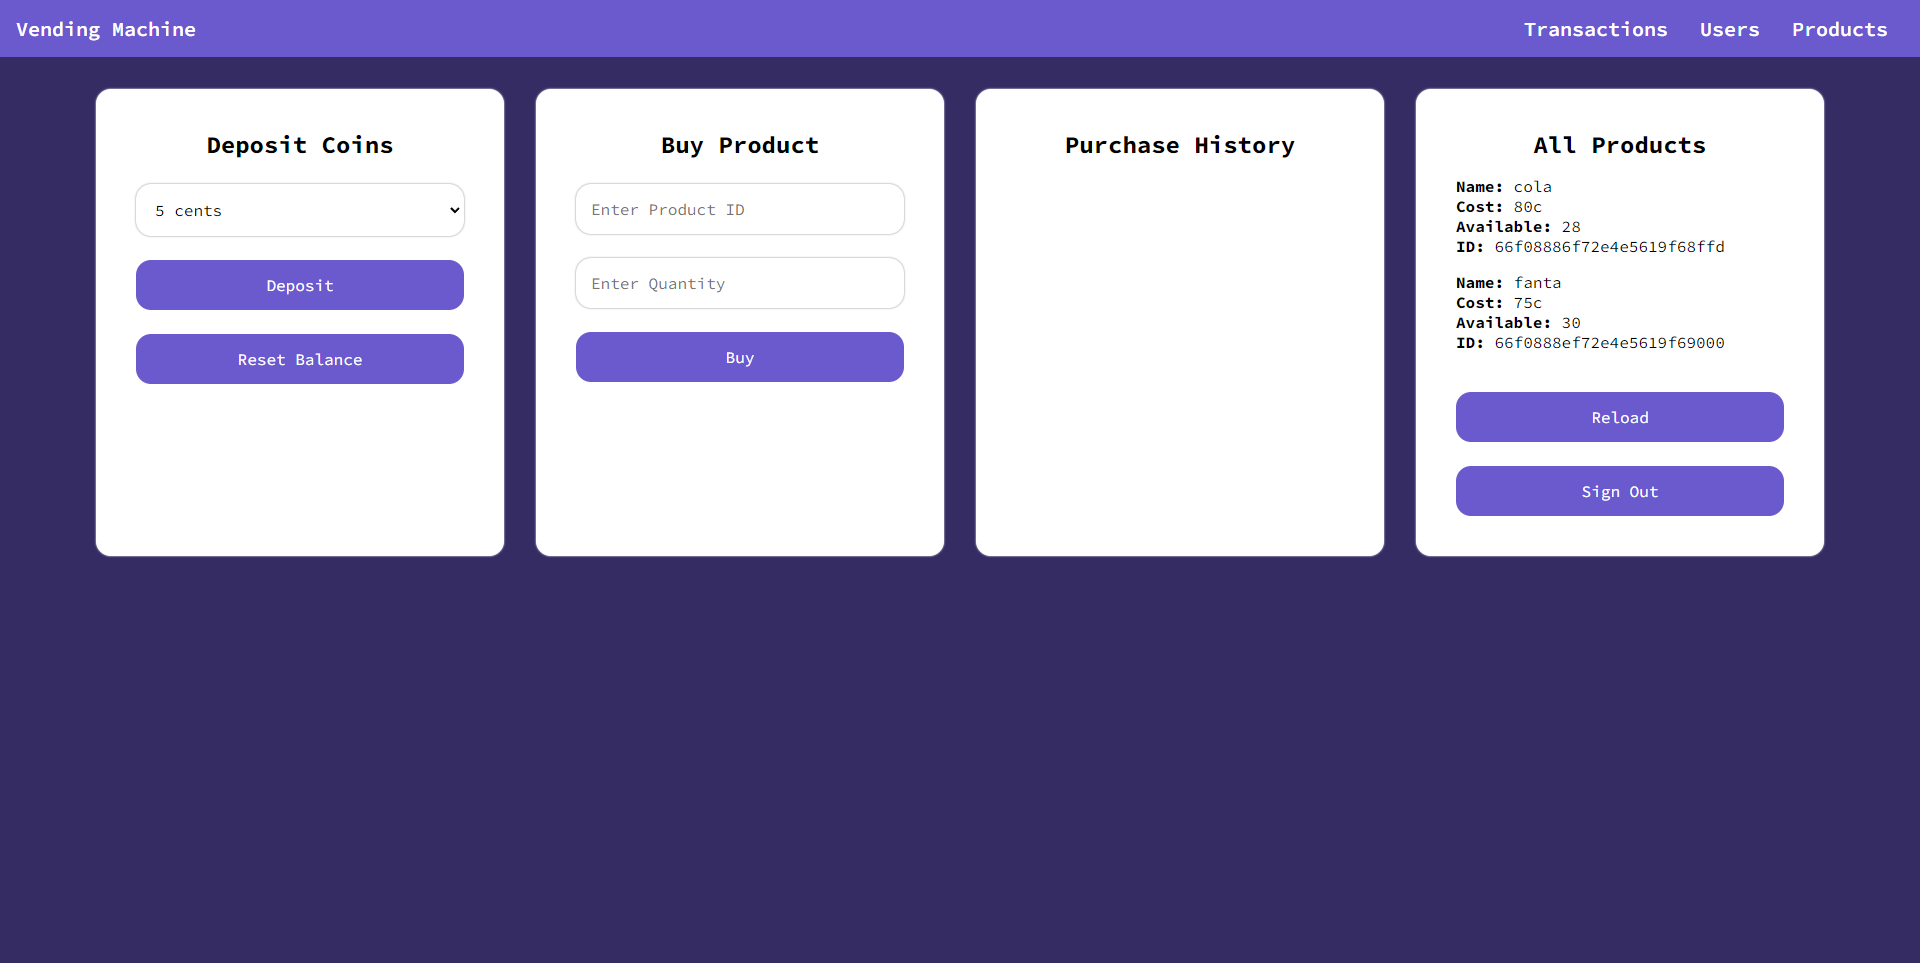
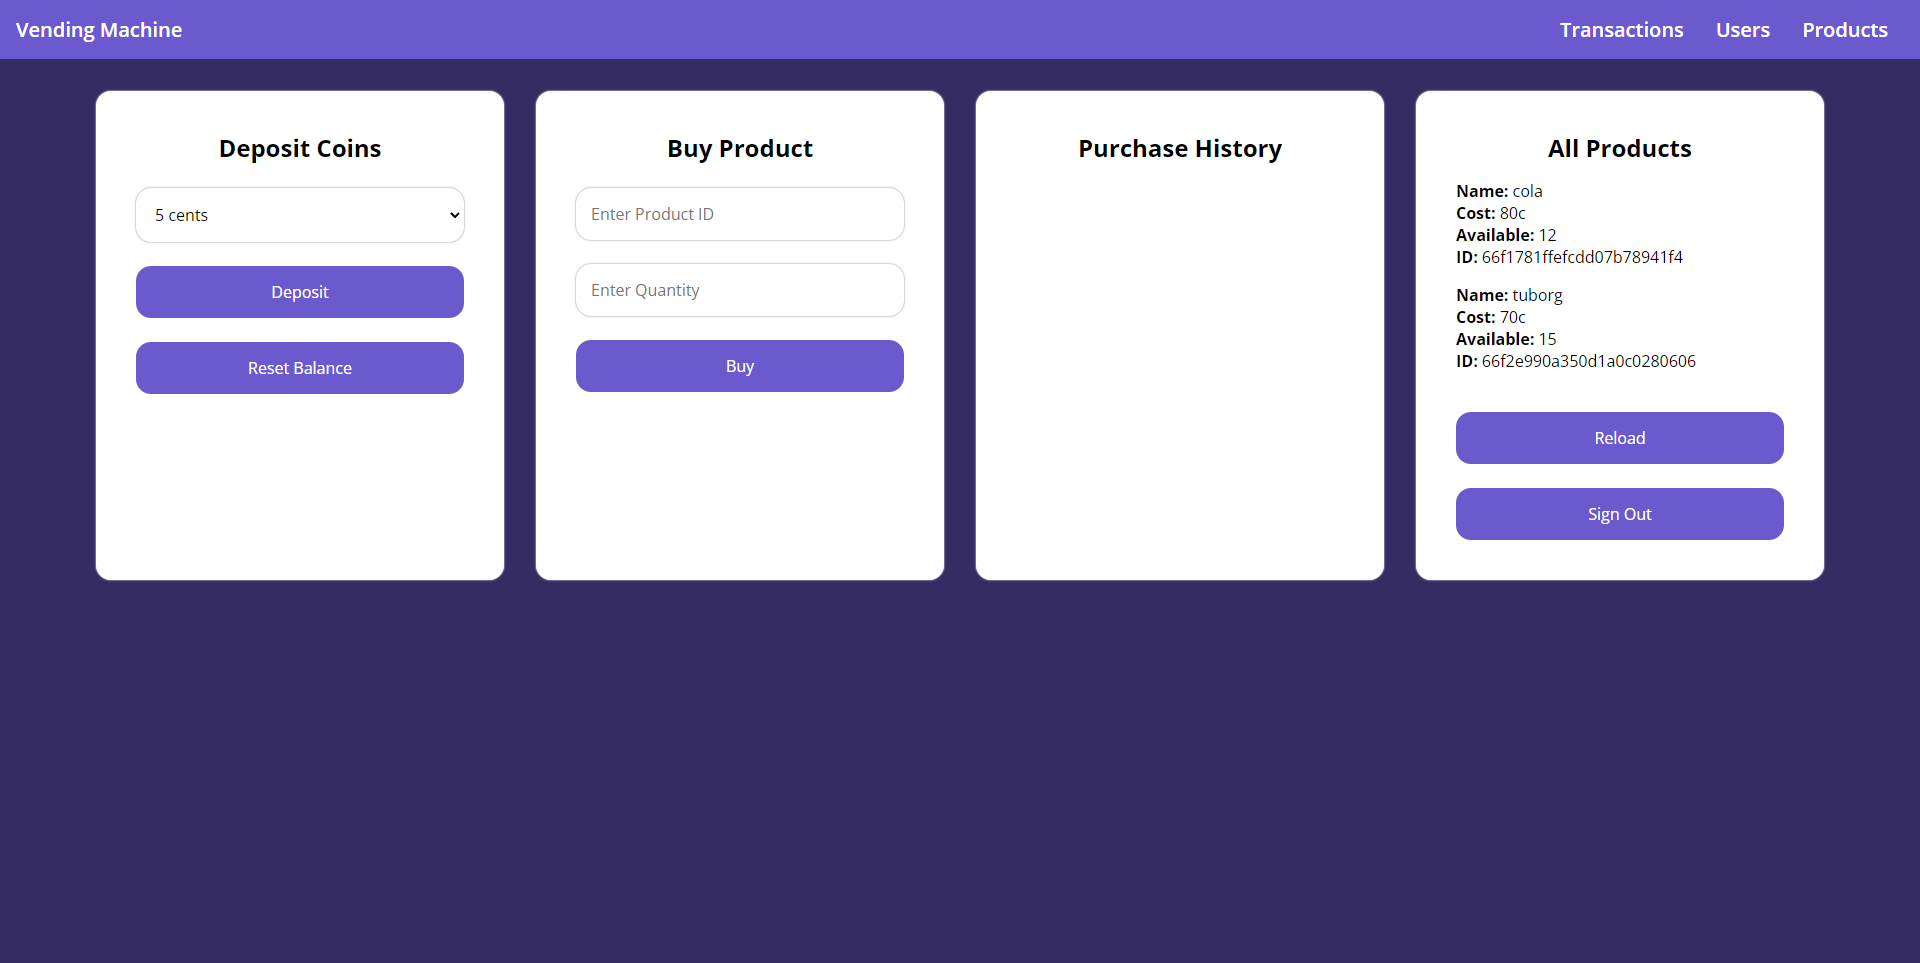
added modals

diff --git a/client/users.html b/client/users.html
@@ -21,7 +21,7 @@
             <h2>My Profile</h2>
             <div id="userList"></div>
             <button type="submit" onclick="loadUser()">Reload</button>
-            <button onclick="logout()">Sign Out</button>
+            <button onclick="logout(true)">Sign Out</button>
         </div>
 
         <div class="container" id="profilediv">
@@ -75,10 +75,9 @@
                 const data = await response.json();
 
                 if (response.ok) {
-                    alert(data.message);
-                    logout();
+                    logout().then(openModal(data.message));
                 } else {
-                    alert(data.message);
+                    openModal(data.message);
                 }
             } catch (error) {
                 console.error('Error updating profile:', error);
@@ -86,26 +85,35 @@
         });
 
         document.getElementById('deleteProfileButton').addEventListener('click', async function() {
-            if (confirm('Are you sure you want to delete your account?')) {
-                try {
-                    const response = await fetch('/users/profile', {
-                        method: 'DELETE',
-                        credentials: 'include'
-                    });
-                    const data = await response.json();
+            try {
+                const response = await fetch('/users/profile', {
+                    method: 'DELETE',
+                    credentials: 'include'
+                });
+                const data = await response.json();
 
-                    if (response.ok) {
-                        alert(data.message);
-                        logout();
-                    } else {
-                        alert(data.message);
-                    }
-                } catch (error) {
-                    console.error('Error deleting profile:', error);
+                if (response.ok) {
+                    logout().then(openModal(data.message));
+                } else {
+                    openModal(data.message);
                 }
+            } catch (error) {
+                    console.error('Error deleting profile:', error);
             }
+            
         });
 
     </script>
+    <dialog id="modal">
+        <div class="modal-btn">
+            <svg xmlns="http://www.w3.org/2000/svg" viewBox="0 0 24 24" style="width: 24px;
+            height: 24px;
+            fill: #000;">
+              <path d="M18 6.41L16.59 5 12 9.59 7.41 5 6 6.41 10.59 11 6 15.59 7.41 17 12 12.41 16.59 17 18 15.59 13.41 11z"/>
+            </svg>
+        </div>
+        <h4>Message</h4>
+        <p></p>
+    </dialog>
 </body>
 </html>

diff --git a/client/products.html b/client/products.html
@@ -47,7 +47,7 @@
         <div class="container">
             <h2>All Products</h2>
             <div id="productList"></div><button onclick="loadProducts()">Reload</button>
-            <button onclick="logout()">Sign Out</button>
+            <button onclick="logout(true)">Sign Out</button>
         </div>
     </div>
     <script src="script.js" defer></script>
@@ -66,10 +66,10 @@
                 const data = await response.json();
 
                 if (response.ok) {
-                    alert(data.message);
+                    openModal(data.message);
                     form.reset();
                 } else {
-                    alert(data.message);
+                    openModal(data.message);
                 }
             } catch (error) {
                 console.error(error);
@@ -101,10 +101,10 @@
                 const data = await response.json();
 
                 if (response.ok) {
-                    alert(data.message);
+                    openModal(data.message);
                     form.reset();
                 } else {
-                    alert(data.message);
+                    openModal(data.message);
                 }
             } catch (error) {
                 console.error(error);
@@ -135,10 +135,10 @@
                 const data = await response.json();
 
                 if (response.ok) {
-                    alert(data.message);
+                    openModal(data.message);
                     form.reset();
                 } else {
-                    alert(data.message);
+                    openModal(data.message);
                 }
             } catch (error) {
                 console.error(error);
@@ -146,5 +146,16 @@
             }
         });
     </script>
+    <dialog id="modal">
+        <div class="modal-btn">
+            <svg xmlns="http://www.w3.org/2000/svg" viewBox="0 0 24 24" style="width: 24px;
+            height: 24px;
+            fill: #000;">
+              <path d="M18 6.41L16.59 5 12 9.59 7.41 5 6 6.41 10.59 11 6 15.59 7.41 17 12 12.41 16.59 17 18 15.59 13.41 11z"/>
+            </svg>
+        </div>
+        <h4>Message</h4>
+        <p></p>
+    </dialog>
 </body>
 </html>

diff --git a/client/index.html b/client/index.html
@@ -41,6 +41,17 @@
                     <button style="background-color: rgb(60, 179, 113);" onclick="document.getElementById('loginForm').style.display='none'; document.getElementById('registerForm').style.display='block';">Don't have an account?</button>
             </div>
         </div>
+        <dialog id="modal">
+            <div class="modal-btn">
+                <svg xmlns="http://www.w3.org/2000/svg" viewBox="0 0 24 24" style="width: 24px;
+                height: 24px;
+                fill: #000;">
+                  <path d="M18 6.41L16.59 5 12 9.59 7.41 5 6 6.41 10.59 11 6 15.59 7.41 17 12 12.41 16.59 17 18 15.59 13.41 11z"/>
+                </svg>
+            </div>
+            <h4>Message</h4>
+            <p></p>
+        </dialog>
     </body>
     <script src="script.js" defer></script>
     <script>
@@ -64,7 +75,7 @@
             if (response.ok) {
                 window.location.href = 'transactions.html';
             } else {
-                alert(data.message);
+                openModal(data.message);
             }
         });
 
@@ -87,7 +98,7 @@
             if (response.ok) {
                 window.location.href = 'transactions.html';
             } else {
-                alert(data.message);
+                openModal(data.message);
                 if (data.message === 'Error 403. There is already an active session using your account.')
                 document.getElementById('logoutAllButton').style.display = 'block';
             }
@@ -107,9 +118,9 @@
             const data = await response.json();
 
             if (response.ok) {
-                alert(data.message);
+                openModal(data.message);
             } else {
-                alert(data.message);
+                openModal(data.message);
             }
         });
     </script>

diff --git a/client/script.js b/client/script.js
@@ -1,4 +1,4 @@
-async function logout() {
+async function logout(f) {
     try {
         const response = await fetch('/auth/logout', {
             method: 'POST',
@@ -10,11 +10,7 @@ async function logout() {
 
         const data = await response.json();
 
-        if (response.ok) {
-            window.location.href = 'index.html'
-        } else {
-            alert(data.message)
-        }
+        if (f) openModal(data.message);
 
     } catch (error) {
         console.error('Logout failed:', error);
@@ -40,7 +36,7 @@ async function loadProducts() {
                 productList.appendChild(div);
             });
         } else {
-            alert(data.message);
+            openModal(data.message);
         }
     } catch (error) {
         console.error('Error loading products:', error);
@@ -67,7 +63,7 @@ async function loadUsers() {
                 </div>`;
             });
         } else {
-            alert(data.message);
+            openModal(data.message);
         }
     } catch (error) {
         console.error('Error loading users:', error);
@@ -92,9 +88,23 @@ async function loadUser() {
                     <p><span>Amount:</span> ${data.user.deposit}</p>
             </div>`; 
         } else {
-            alert(data.message);
+            openModal(data.message);
         }
     } catch (error) {
         console.error('Error loading user:', error);
     }
 }
+
+function openModal(msg) {
+    console.log("foo");
+    const modal = document.getElementById("modal");
+    modal.showModal();
+  
+    const modalBody = modal.querySelector("p");
+    modalBody.innerHTML = msg;
+  
+    const modalCloseButton = modal.querySelector(".modal-btn");
+    modalCloseButton.addEventListener("click", () => {
+      modal.close();
+    });
+  }

diff --git a/client/transactions.html b/client/transactions.html
@@ -49,7 +49,7 @@
             <h2>All Products</h2>
                 <div id="productList"></div>
                 <button onclick="loadProducts()">Reload</button>
-                <button onclick="logout()">Sign Out</button>
+                <button onclick="logout(true)">Sign Out</button>
             </div>
 
     </div>
@@ -72,7 +72,7 @@
             const data = await response.json();
 
             if (response.ok) {
-                alert(data.message);
+                openModal(data.message);
             } else {
                 alert(data.message || 'Error depositing coins.');
             }
@@ -104,7 +104,7 @@
                     <p><span>ID:</span> ${data.productsPurchased.productId}</p>
                 `
                 document.getElementById('productSection').appendChild(purchaseHistoryItem);
-                alert(data.message);
+                openModal(data.message);
             } else {
                 alert(data.message || 'Error making purchase.');
             }
@@ -122,12 +122,23 @@
             const data = await response.json();
 
             if (response.ok) {
-                alert(data.message);
+                openModal(data.message);
             } else {
                 alert(data.message || 'Error resetting deposit.');
             }
         });
     
     </script>
+    <dialog id="modal">
+        <div class="modal-btn">
+            <svg xmlns="http://www.w3.org/2000/svg" viewBox="0 0 24 24" style="width: 24px;
+            height: 24px;
+            fill: #000;">
+              <path d="M18 6.41L16.59 5 12 9.59 7.41 5 6 6.41 10.59 11 6 15.59 7.41 17 12 12.41 16.59 17 18 15.59 13.41 11z"/>
+            </svg>
+        </div>
+        <h4>Message</h4>
+        <p></p>
+    </dialog>
 </body>
 </html>

diff --git a/client/styles.css b/client/styles.css
@@ -1,11 +1,11 @@
-@import url('https://fonts.googleapis.com/css2?family=Source+Code+Pro:ital,wght@0,200..900;1,200..900&display=swap');
+@import url('https://fonts.googleapis.com/css2?family=Open+Sans:ital,wght@0,300..800;1,300..800&display=swap');
 
 * {
     box-sizing: border-box;
     margin: 0;
     padding: 0;
     font-size: 16px;
-    font-family: Source Code Pro, sans-serif;
+    font-family: open sans, sans-serif;
 }
 
 body {
@@ -119,6 +119,50 @@ header a {
 
 .container button:active, .container input[type="submit"]:active, .container input[type="button"]:active {
     transform: scale(0.98);
+}
+
+dialog {
+    border: none;
+    position: fixed;
+    top: 50%;
+    left: 50%;
+    transform: translate(-50%, -50%);
+    text-align: center;
+    justify-content: center;
+    padding: 60px;
+    border-radius: 1.25rem;
+    box-shadow: 0 0 0.125rem gray;
+}
+
+
+.modal-btn {
+    position: absolute;
+    top: 18px;
+    right: 14px;
+    width: 30px;
+    height: 30px;
+    background: transparent;
+    border-radius: 50%;
+    cursor: pointer;
+    padding: 0;
+    display: flex;
+    justify-content: center;
+    align-items: center;
+    transition: background-color 0.15s ease-in-out;
+}
+
+dialog > h4 {
+    font-size: clamp(0.5em, 3vw, 1.5em);
+}
+
+dialog > p {
+    font-size: clamp(0.25em, 3vw, 1em);
+    line-height: 1.5;
+    padding: 10px;
+}
+
+.modal-btn:hover {
+    background-color: rgba(0, 0, 0, 0.04);
 }
 
 
